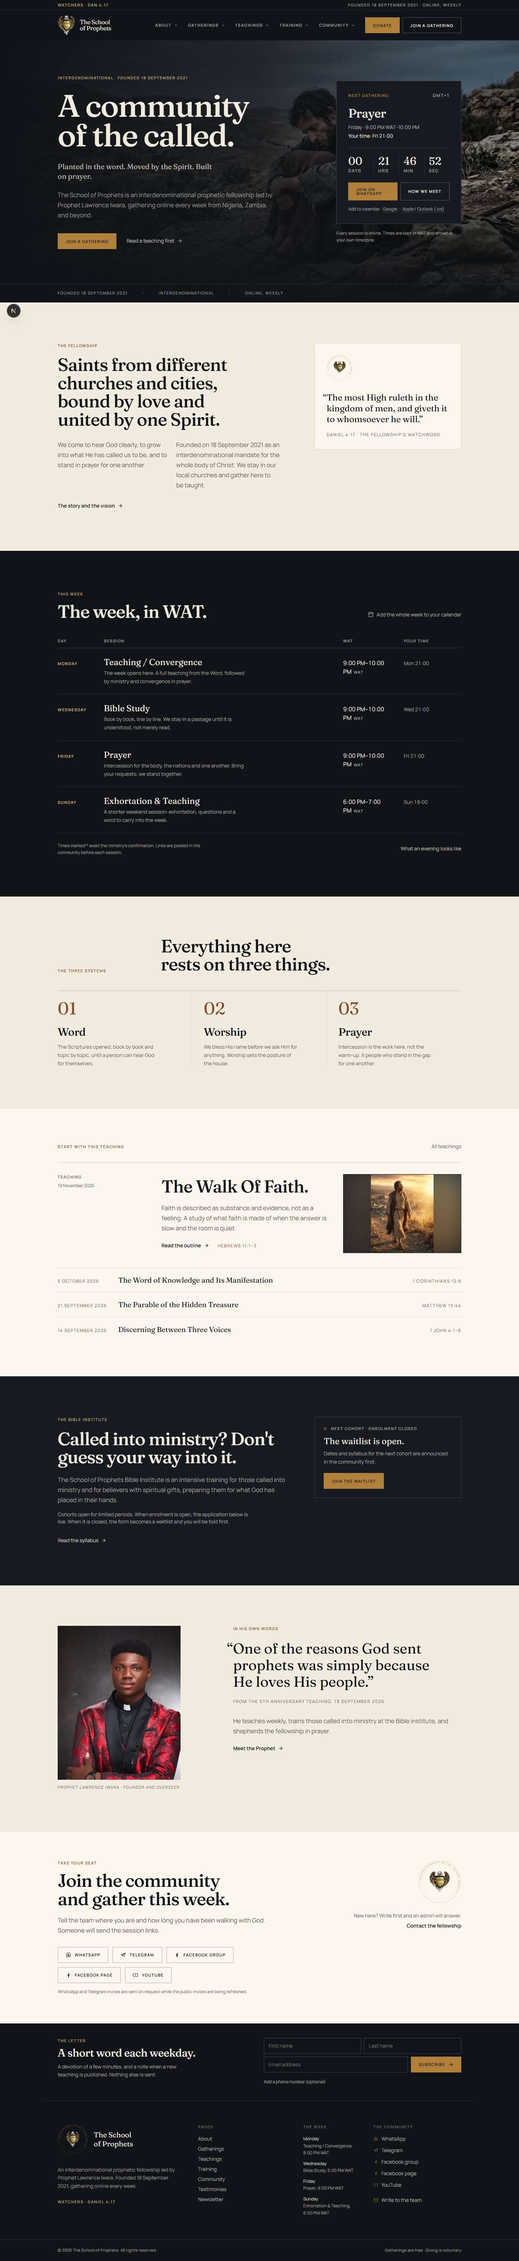
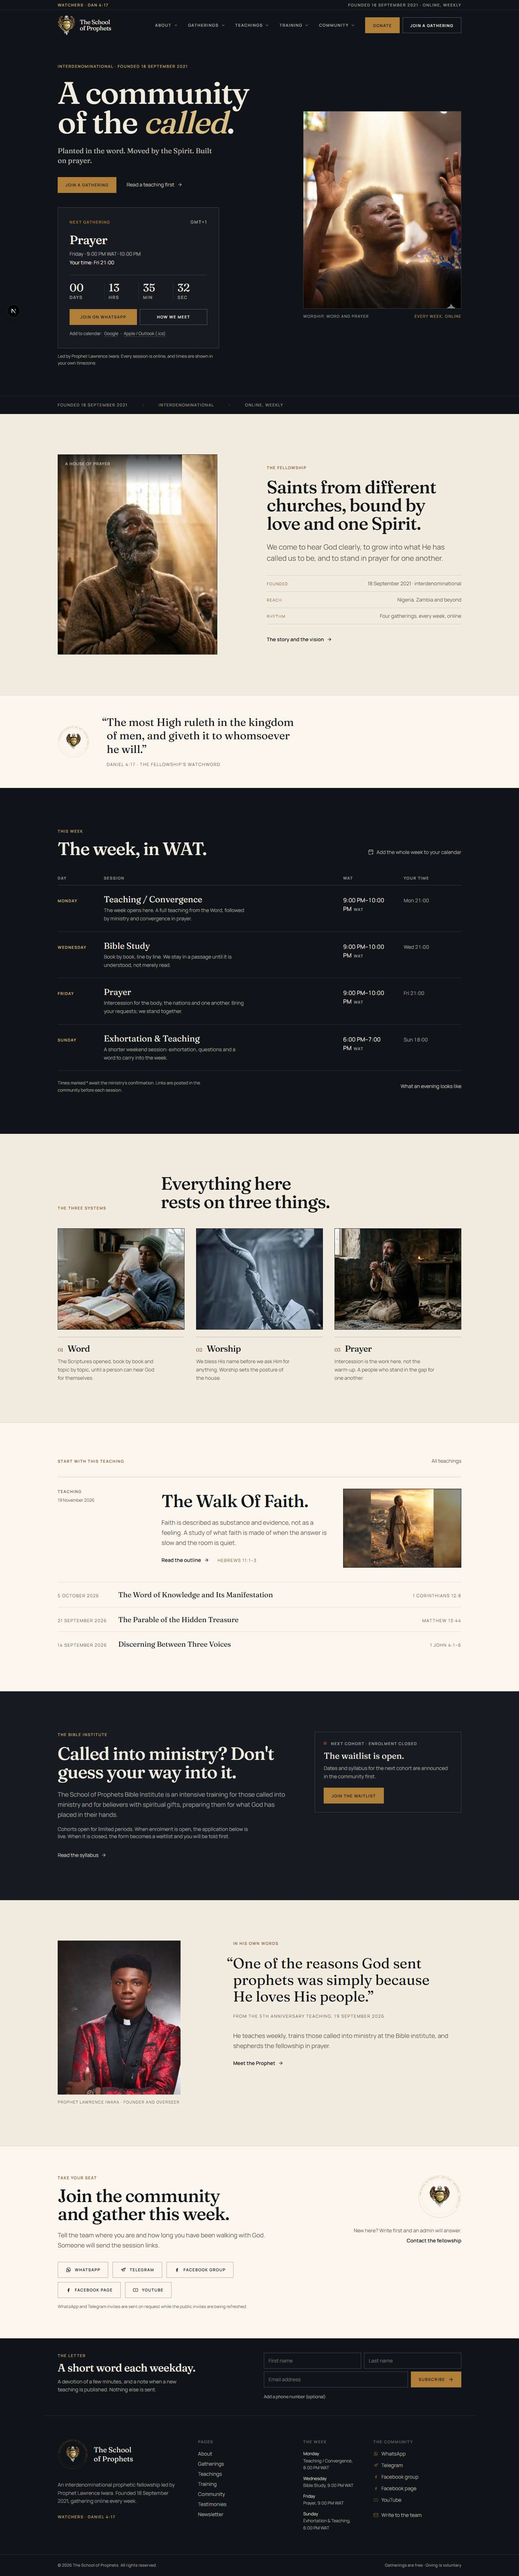
Home: lead with worshipping people, not the wilderness
The hero photo did not match the invitation beside it, and the countdown card
covered it. The hero now sets a worshipping portrait beside the type, the
fellowship section leads with a house at prayer and its watchword in a band,
and each of the three systems carries a photograph so the page is not all text.

🤖 Generated with Codebuff

diff --git a/src/app/page.tsx b/src/app/page.tsx
@@ -39,16 +39,22 @@ const systems = [
     number: "01",
     title: "Word",
     body: "The Scriptures opened, book by book and topic by topic, until a person can hear God for themselves.",
+    image: "/images/bible-bedside.webp",
+    alt: "A believer reading an open Bible in a quiet room",
   },
   {
     number: "02",
     title: "Worship",
     body: "We bless His name before we ask Him for anything. Worship sets the posture of the house.",
+    image: "/images/shofar-sunset.webp",
+    alt: "A worshipper lifting a shofar in prayer",
   },
   {
     number: "03",
     title: "Prayer",
     body: "Intercession is the work here, not the warm-up. A people who stand in the gap for one another.",
+    image: "/images/prayer-cave.webp",
+    alt: "A man kneeling in prayer in a stone room",
   },
 ];
 
@@ -76,49 +82,25 @@ export default async function HomePage() {
 
   return (
     <>
-      {/* Hero: the watchman's hill, held behind the type */}
+      {/* Hero: the worshipping house, shown plainly beside the invitation */}
       <section className="relative isolate overflow-hidden bg-ink text-parchment">
-        <Image
-          src="/images/desert-walk.webp"
-          alt=""
-          aria-hidden="true"
-          fill
-          priority
-          sizes="100vw"
-          className="object-cover object-[65%_45%]"
-        />
-        <div
-          aria-hidden="true"
-          className="absolute inset-0 bg-gradient-to-r from-ink via-ink/80 to-ink/5"
-        />
-        <div
-          aria-hidden="true"
-          className="absolute inset-0 bg-gradient-to-t from-ink via-transparent to-ink/30"
-        />
-
-        <div className="wrap relative grid gap-12 pb-16 pt-16 md:min-h-[38rem] md:content-center md:pb-24 md:pt-24 lg:grid-cols-12 lg:items-center lg:gap-10">
-          <div className="lg:col-span-7">
+        <div className="wrap relative grid gap-10 pb-16 pt-10 md:pb-20 md:pt-16 lg:grid-cols-12 lg:items-center lg:gap-12">
+          <div className="order-2 lg:order-1 lg:col-span-6">
             <p className="label text-gold-soft/85">
               Interdenominational · Founded {site.founded}
             </p>
 
-            <h1 className="mt-7 max-w-[13ch] font-display text-display text-parchment">
+            <h1 className="mt-6 max-w-[13ch] font-display text-display text-parchment">
               A community
               <br />
-              of the called.
+              of the <em className="italic text-gold-soft">called</em>.
             </h1>
 
-            <p className="mt-8 max-w-[34ch] font-display text-lead leading-snug text-parchment/75">
+            <p className="mt-6 max-w-[34ch] font-display text-lead leading-snug text-parchment/75">
               Planted in the word. Moved by the Spirit. Built on prayer.
             </p>
 
-            <p className="measure mt-6 text-parchment/55">
-              The School of Prophets is an interdenominational prophetic fellowship
-              led by {site.leader}, gathering online every week from Nigeria, Zambia
-              and beyond.
-            </p>
-
-            <div className="mt-9 flex flex-wrap items-center gap-x-7 gap-y-4">
+            <div className="mt-8 flex flex-wrap items-center gap-x-7 gap-y-4">
               <Link href="/gatherings" className="btn btn-gold">
                 Join a gathering
               </Link>
@@ -130,14 +112,33 @@ export default async function HomePage() {
                 <ArrowRight aria-hidden="true" className="h-3.5 w-3.5" />
               </Link>
             </div>
+
+            <div className="mt-10 max-w-md">
+              <NextGathering sessions={schedule} joinHref={contact.whatsapp || undefined} />
+              <p className="mt-3 text-xs leading-relaxed text-parchment/60">
+                Led by {site.leader}. Every session is online, and times are shown
+                in your own timezone.
+              </p>
+            </div>
           </div>
 
-          <div className="lg:col-span-4 lg:col-start-9">
-            <NextGathering sessions={schedule} joinHref={contact.whatsapp || undefined} />
-            <p className="mt-4 text-xs leading-relaxed text-parchment/60">
-              Every session is online. Times are kept in WAT and shown in your own
-              timezone.
-            </p>
+          <div className="order-1 lg:order-2 lg:col-span-5 lg:col-start-8">
+            <figure className="relative">
+              <div className="relative aspect-[4/3] overflow-hidden border border-parchment/15 bg-ink-2 sm:aspect-[16/9] lg:aspect-[4/5]">
+                <Image
+                  src="/images/worship-hands.webp"
+                  alt="A worshipper standing with hands lifted in prayer"
+                  fill
+                  priority
+                  sizes="(max-width: 1024px) 100vw, 40vw"
+                  className="object-cover object-[50%_32%]"
+                />
+              </div>
+              <figcaption className="mt-3 flex items-baseline justify-between gap-4 text-[0.68rem] uppercase tracking-[0.13em] text-parchment/60">
+                <span>Worship, word and prayer</span>
+                <span className="text-gold-soft/80">Every week, online</span>
+              </figcaption>
+            </figure>
           </div>
         </div>
 
@@ -152,51 +153,81 @@ export default async function HomePage() {
         </div>
       </section>
 
-      {/* Who we are, with a scripture plate */}
+      {/* Who we are: a house at prayer, set beside the plain account */}
       {show.intro && (
-        <section className="wrap grid gap-12 py-20 md:grid-cols-12 md:py-28">
-          <div className="md:col-span-7">
-            <p className="label text-ember">The fellowship</p>
-            <Reveal>
-              <h2 className="mt-5 max-w-[24ch] font-display text-hero">
-                Saints from different churches and cities, bound by love and united
-                by one Spirit.
-              </h2>
-            </Reveal>
-            <div className="mt-8 grid max-w-3xl gap-6 text-quiet sm:grid-cols-2">
-              <p>
+        <section>
+          <div className="wrap grid gap-12 py-20 md:grid-cols-12 md:gap-10 md:py-28">
+            <div className="md:col-span-5">
+              <div className="relative">
+                <figure className="relative aspect-[4/5] overflow-hidden border border-ink/15 bg-ink-3 sm:aspect-[5/4] md:aspect-[4/5]">
+                  <Image
+                    src="/images/prayer-cathedral.webp"
+                    alt="A congregation standing in prayer under the light of a high window"
+                    fill
+                    sizes="(max-width: 768px) 100vw, 46vw"
+                    className="object-cover object-[45%_35%]"
+                  />
+                  <figcaption className="absolute inset-x-0 top-0 max-w-[78%] bg-gradient-to-b from-ink/85 via-ink/40 to-transparent px-5 pb-12 pt-4 text-[0.68rem] uppercase tracking-[0.13em] text-parchment/85">
+                    A house of prayer
+                  </figcaption>
+                </figure>
+              </div>
+            </div>
+
+            <div className="md:col-span-6 md:col-start-7 md:self-center">
+              <p className="label text-ember">The fellowship</p>
+              <Reveal>
+                <h2 className="mt-5 max-w-[22ch] font-display text-hero">
+                  Saints from different churches, bound by love and one Spirit.
+                </h2>
+              </Reveal>
+              <p className="mt-6 text-lead text-quiet">
                 We come to hear God clearly, to grow into what He has called us to
                 be, and to stand in prayer for one another.
               </p>
-              <p>
-                Founded on {site.founded} as an interdenominational mandate for the
-                whole body of Christ. We stay in our local churches and gather here
-                to be taught.
-              </p>
+
+              <dl className="mt-8 border-y border-ink/15">
+                {[
+                  ["Founded", `${site.founded} · interdenominational`],
+                  ["Reach", "Nigeria, Zambia and beyond"],
+                  ["Rhythm", "Four gatherings, every week, online"],
+                ].map(([term, detail]) => (
+                  <div
+                    key={term}
+                    className="flex flex-wrap items-baseline justify-between gap-x-6 gap-y-1 border-b border-ink/12 py-3 last:border-b-0"
+                  >
+                    <dt className="text-[0.68rem] uppercase tracking-[0.13em] text-ember">
+                      {term}
+                    </dt>
+                    <dd className="text-sm text-quiet">{detail}</dd>
+                  </div>
+                ))}
+              </dl>
+
+              <Link
+                href="/about"
+                className="link-quiet mt-8 inline-flex items-center gap-2 text-sm font-semibold text-ink"
+              >
+                The story and the vision
+                <ArrowRight aria-hidden="true" className="h-3.5 w-3.5" />
+              </Link>
             </div>
-            <Link
-              href="/about"
-              className="link-quiet mt-8 inline-flex items-center gap-2 text-sm font-semibold text-ink"
-            >
-              The story and the vision
-              <ArrowRight aria-hidden="true" className="h-3.5 w-3.5" />
-            </Link>
           </div>
 
-          <figure className="md:col-span-5 md:pl-8">
-            <div className="border border-ink/15 bg-paper p-8">
-              <Seal size={72} idKey="home-intro" />
-              <blockquote className="mt-8">
-                <p className="pullquote font-display text-2xl leading-[1.25]">
+          <div className="border-y border-ink/15 bg-paper">
+            <div className="wrap flex flex-col items-start gap-8 py-12 sm:flex-row sm:items-center md:gap-12 md:py-14">
+              <Seal size={88} idKey="home-intro" className="shrink-0" />
+              <blockquote className="max-w-[54ch]">
+                <p className="pullquote font-display text-2xl leading-[1.25] md:text-3xl">
                   “The most High ruleth in the kingdom of men, and giveth it to
                   whomsoever he will.”
                 </p>
-                <figcaption className="mt-5 text-xs uppercase tracking-[0.13em] text-quiet">
+                <figcaption className="mt-4 text-xs uppercase tracking-[0.13em] text-quiet">
                   Daniel 4:17 · the fellowship&apos;s watchword
                 </figcaption>
               </blockquote>
             </div>
-          </figure>
+          </div>
         </section>
       )}
 
@@ -250,24 +281,28 @@ export default async function HomePage() {
             </h2>
           </div>
 
-          <div className="mt-12 grid gap-10 md:grid-cols-3 md:gap-0">
-            {systems.map((system, index) => (
-              <div
-                key={system.number}
-                className={`border-t border-ink/25 pt-6 md:px-8 ${
-                  index === 0 ? "md:pl-0" : ""
-                } ${index < systems.length - 1 ? "md:border-r md:border-r-ink/15" : ""} ${
-                  index === systems.length - 1 ? "md:pr-0" : ""
-                }`}
-              >
-                <p className="font-display text-5xl leading-none tabular-nums text-ember">
-                  {system.number}
-                </p>
-                <h3 className="mt-6 font-display text-3xl">{system.title}</h3>
-                <p className="mt-3 max-w-[32ch] text-sm leading-relaxed text-quiet">
+          <div className="mt-12 grid gap-10 sm:grid-cols-3 sm:gap-6 md:gap-8">
+            {systems.map((system) => (
+              <article key={system.number} className="group">
+                <div className="relative aspect-[5/4] overflow-hidden border border-ink/15 bg-ink-3">
+                  <Image
+                    src={system.image}
+                    alt={system.alt}
+                    fill
+                    sizes="(max-width: 640px) 100vw, 30vw"
+                    className="object-cover object-center transition-transform duration-700 ease-out group-hover:scale-[1.03]"
+                  />
+                </div>
+                <div className="mt-5 flex items-baseline gap-3 border-t border-ink/25 pt-4">
+                  <span className="font-display text-sm tabular-nums text-ember">
+                    {system.number}
+                  </span>
+                  <h3 className="font-display text-2xl">{system.title}</h3>
+                </div>
+                <p className="mt-2 max-w-[34ch] text-sm leading-relaxed text-quiet">
                   {system.body}
                 </p>
-              </div>
+              </article>
             ))}
           </div>
         </section>

diff --git a/docs/DECISIONS.md b/docs/DECISIONS.md
@@ -40,3 +40,8 @@ put to the client; each decision is reversible.
     on the overview instead of being removed.
 15. **`docs/qa/before` is generated from commit `cdb38cd`**, the state before
     this pass, by checking out `src/` at that commit, capturing, and restoring.
+16. **Home imagery is about the fellowship, not the wilderness.** The hero shows
+    a worshipper with hands lifted, beside the type rather than behind it, so the
+    picture is seen and the countdown card no longer covers it. The fellowship
+    section leads with a gathered house at prayer, with the watchword moved to a
+    full-width band; the three systems each carry one photograph. Nothing but the layout and the chosen photographs changed.
